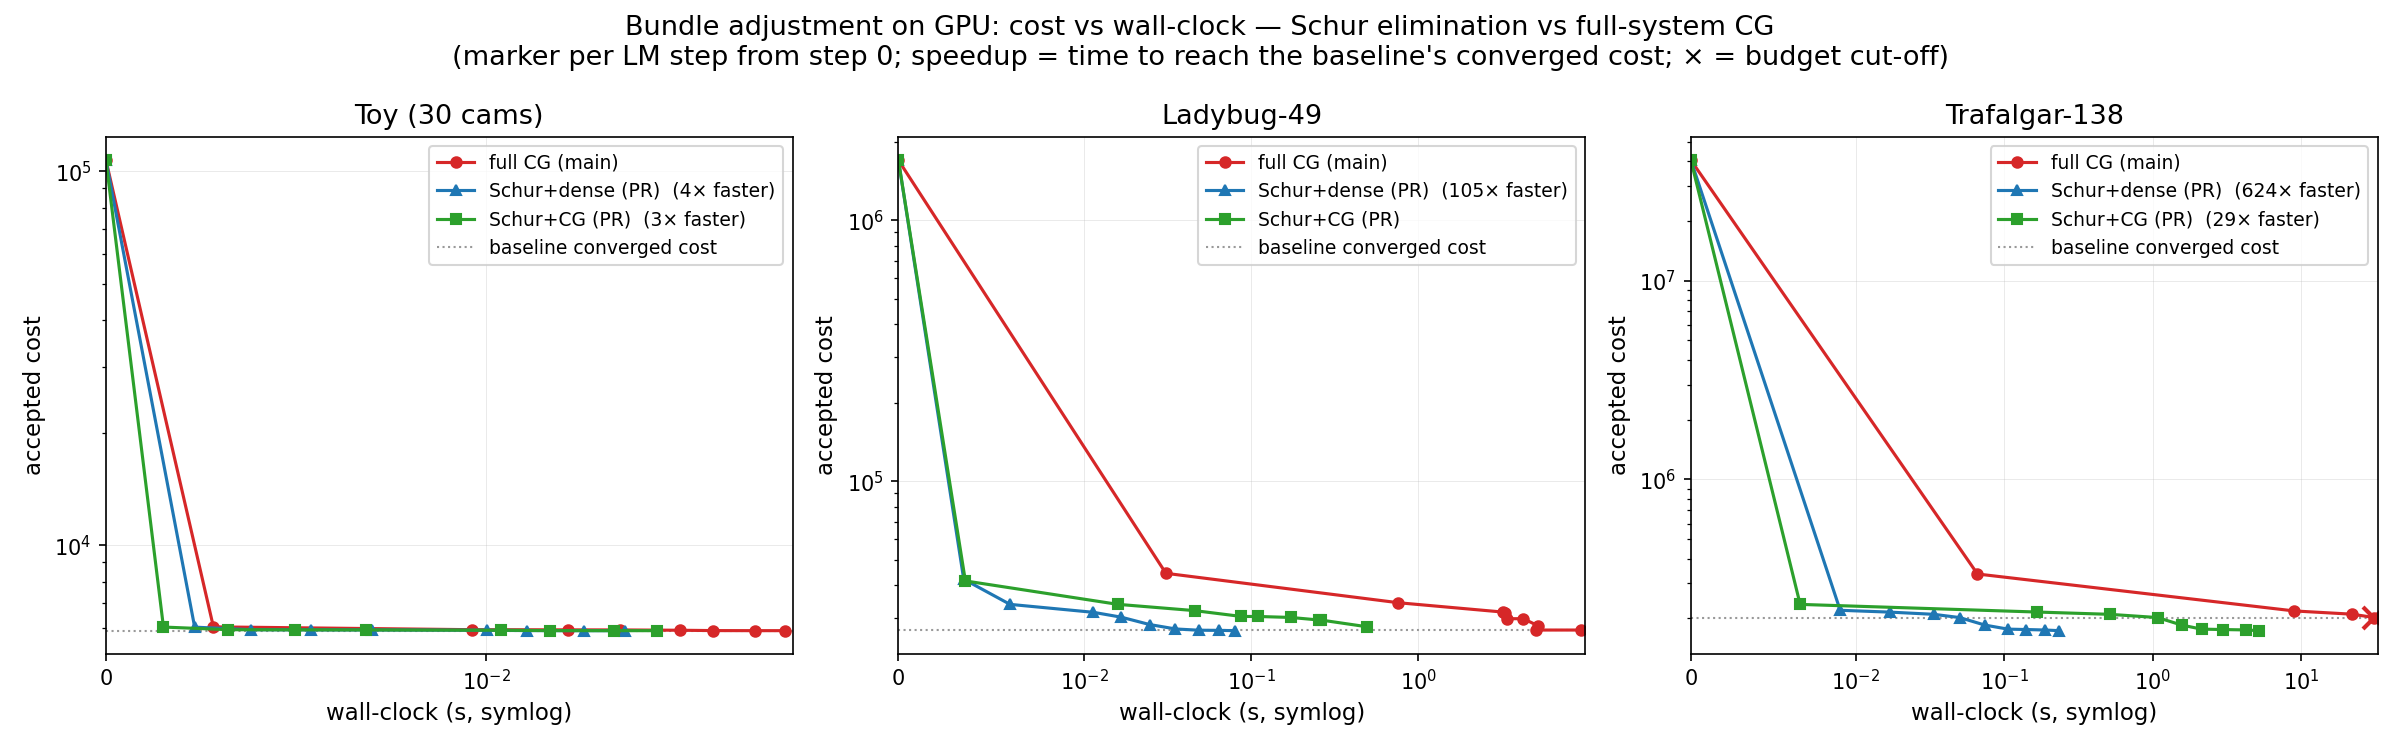
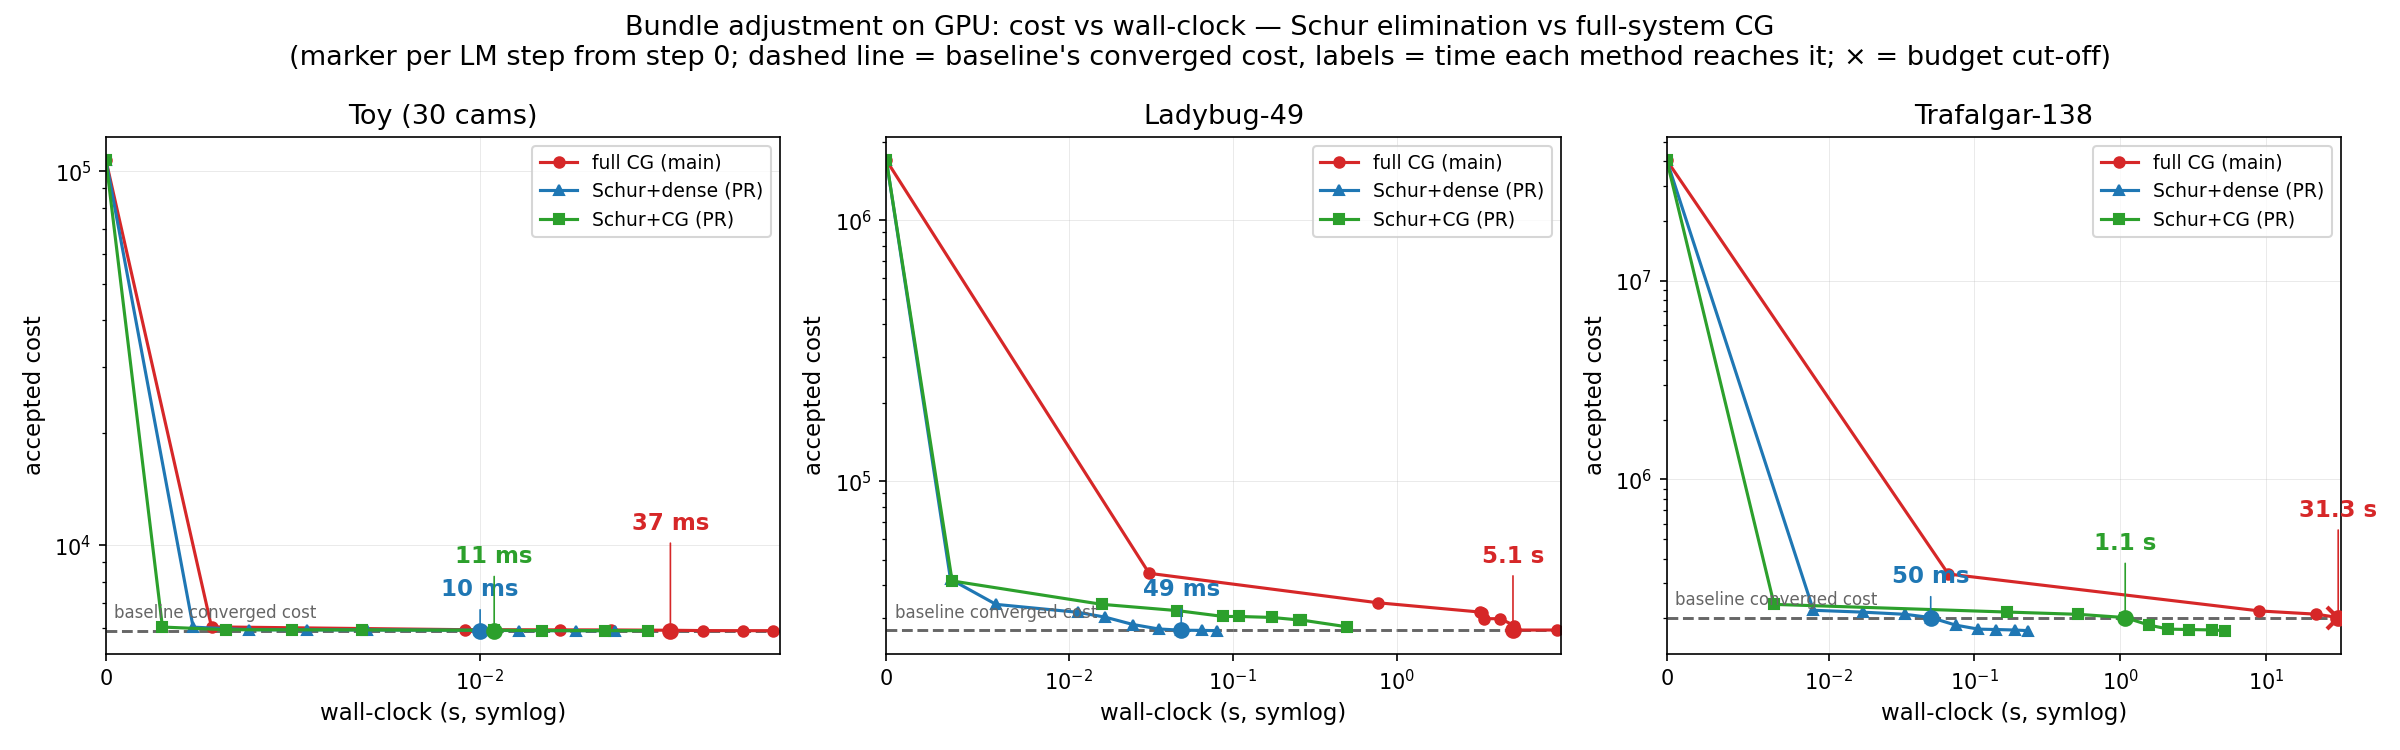
Label absolute crossing times on the BA comparison plot
Replace the vague "624× faster" legend tags with a dashed line at the
baseline full-CG converged cost and a labeled dot where each method crosses
it, showing the absolute wall-clock time (e.g. Trafalgar-138: 50 ms for
Schur+dense, 1.1 s for Schur+CG, 31.3 s for full CG). The reader reads the
times directly and can judge the gap themselves.

diff --git a/benchmarks/device_sweep.py b/benchmarks/device_sweep.py
@@ -332,40 +332,60 @@ def plot_ba_comparison() -> None:
                 cache[suffix] = json.loads(path.read_text()) if path.exists() else {}
             return cache[suffix] or None
 
-        # Baseline target: the converged cost the main full-CG run reaches.
-        # Speedups are "time for each method to reach that same cost" — the
-        # apples-to-apples question a reader actually cares about. A small
-        # tolerance absorbs matched-k jitter so a method that lands ~0.1%
-        # above the baseline floor still counts as having reached it.
+        # Threshold: the converged cost the main full-CG run reaches. We draw
+        # a dashed line there and label, on each curve, the wall-clock time it
+        # crosses — the apples-to-apples "how long to the same solution?". A
+        # small tolerance absorbs matched-k jitter so a method that lands
+        # ~0.1% above the baseline floor still counts as having reached it.
         base_data = _load("main")
         base_run = base_data["runs"].get("gpu:full CG") if base_data else None
-        target = min(base_run["costs"]) * 1.003 if base_run else None
-        t_base = _time_to_cost(base_run, c0, target) if base_run else None
+        threshold = min(base_run["costs"]) if base_run else None
+        target = threshold * 1.003 if threshold is not None else None
 
+        crossings = []  # (label, time, color) to annotate after curves drawn
         for label, suffix, method, color, marker in series:
             data = _load(suffix)
             run = data["runs"].get(f"gpu:{method}") if data else None
             if run is None:
                 continue
             times, best = _running_best(run, c0)
-            speed = ""
+            ax.plot(times, best, marker=marker, ms=5, color=color, label=label)
             t_hit = _time_to_cost(run, c0, target) if target is not None else None
-            if t_hit is not None and t_base is not None and t_hit > 0:
-                factor = t_base / t_hit
-                speed = f"  ({factor:.0f}× faster)" if factor >= 1.5 else ""
-            ax.plot(
-                times, best, marker=marker, ms=5, color=color, label=label + speed
-            )
+            if t_hit is not None and t_hit > 0:
+                crossings.append((label, t_hit, color))
             if run.get("budget_stopped_at_k") is not None:
                 ax.plot(times[-1], best[-1], marker="x", ms=11, mew=2, color=color)
-        if target is not None:
-            ax.axhline(
-                target / 1.003,
-                color="0.6",
-                lw=1,
-                ls=":",
-                zorder=0,
-                label="baseline converged cost",
+
+        if threshold is not None:
+            ax.axhline(threshold, color="0.4", lw=1.4, ls="--", zorder=0)
+            ax.annotate(
+                "baseline converged cost",
+                (0, threshold),
+                textcoords="offset points",
+                xytext=(4, 4),
+                ha="left",
+                va="bottom",
+                fontsize=8,
+                color="0.4",
+            )
+        # Mark where each method crosses the threshold and label the absolute
+        # time at that point — staggered vertically so the labels don't
+        # collide, with a leader dot on the threshold line.
+        crossings.sort(key=lambda c: c[1])
+        for i, (label, t_hit, color) in enumerate(crossings):
+            ax.plot([t_hit], [threshold], marker="o", ms=7, color=color, zorder=5)
+            txt = f"{t_hit * 1e3:.0f} ms" if t_hit < 1.0 else f"{t_hit:.1f} s"
+            ax.annotate(
+                txt,
+                (t_hit, threshold),
+                textcoords="offset points",
+                xytext=(0, 14 + 16 * i),
+                ha="center",
+                va="bottom",
+                fontsize=11,
+                fontweight="bold",
+                color=color,
+                arrowprops=dict(arrowstyle="-", color=color, lw=0.8),
             )
         ax.set_yscale("log")
         # symlog: linear through t=0 (so step 0 shows), log beyond — the
@@ -381,8 +401,9 @@ def plot_ba_comparison() -> None:
         ax.legend(fontsize=9, loc="upper right")
     fig.suptitle(
         "Bundle adjustment on GPU: cost vs wall-clock — Schur elimination "
-        "vs full-system CG\n(marker per LM step from step 0; speedup = time "
-        "to reach the baseline's converged cost; × = budget cut-off)",
+        "vs full-system CG\n(marker per LM step from step 0; dashed line = "
+        "baseline's converged cost, labels = time each method reaches it; "
+        "× = budget cut-off)",
         fontsize=13,
     )
     fig.tight_layout()